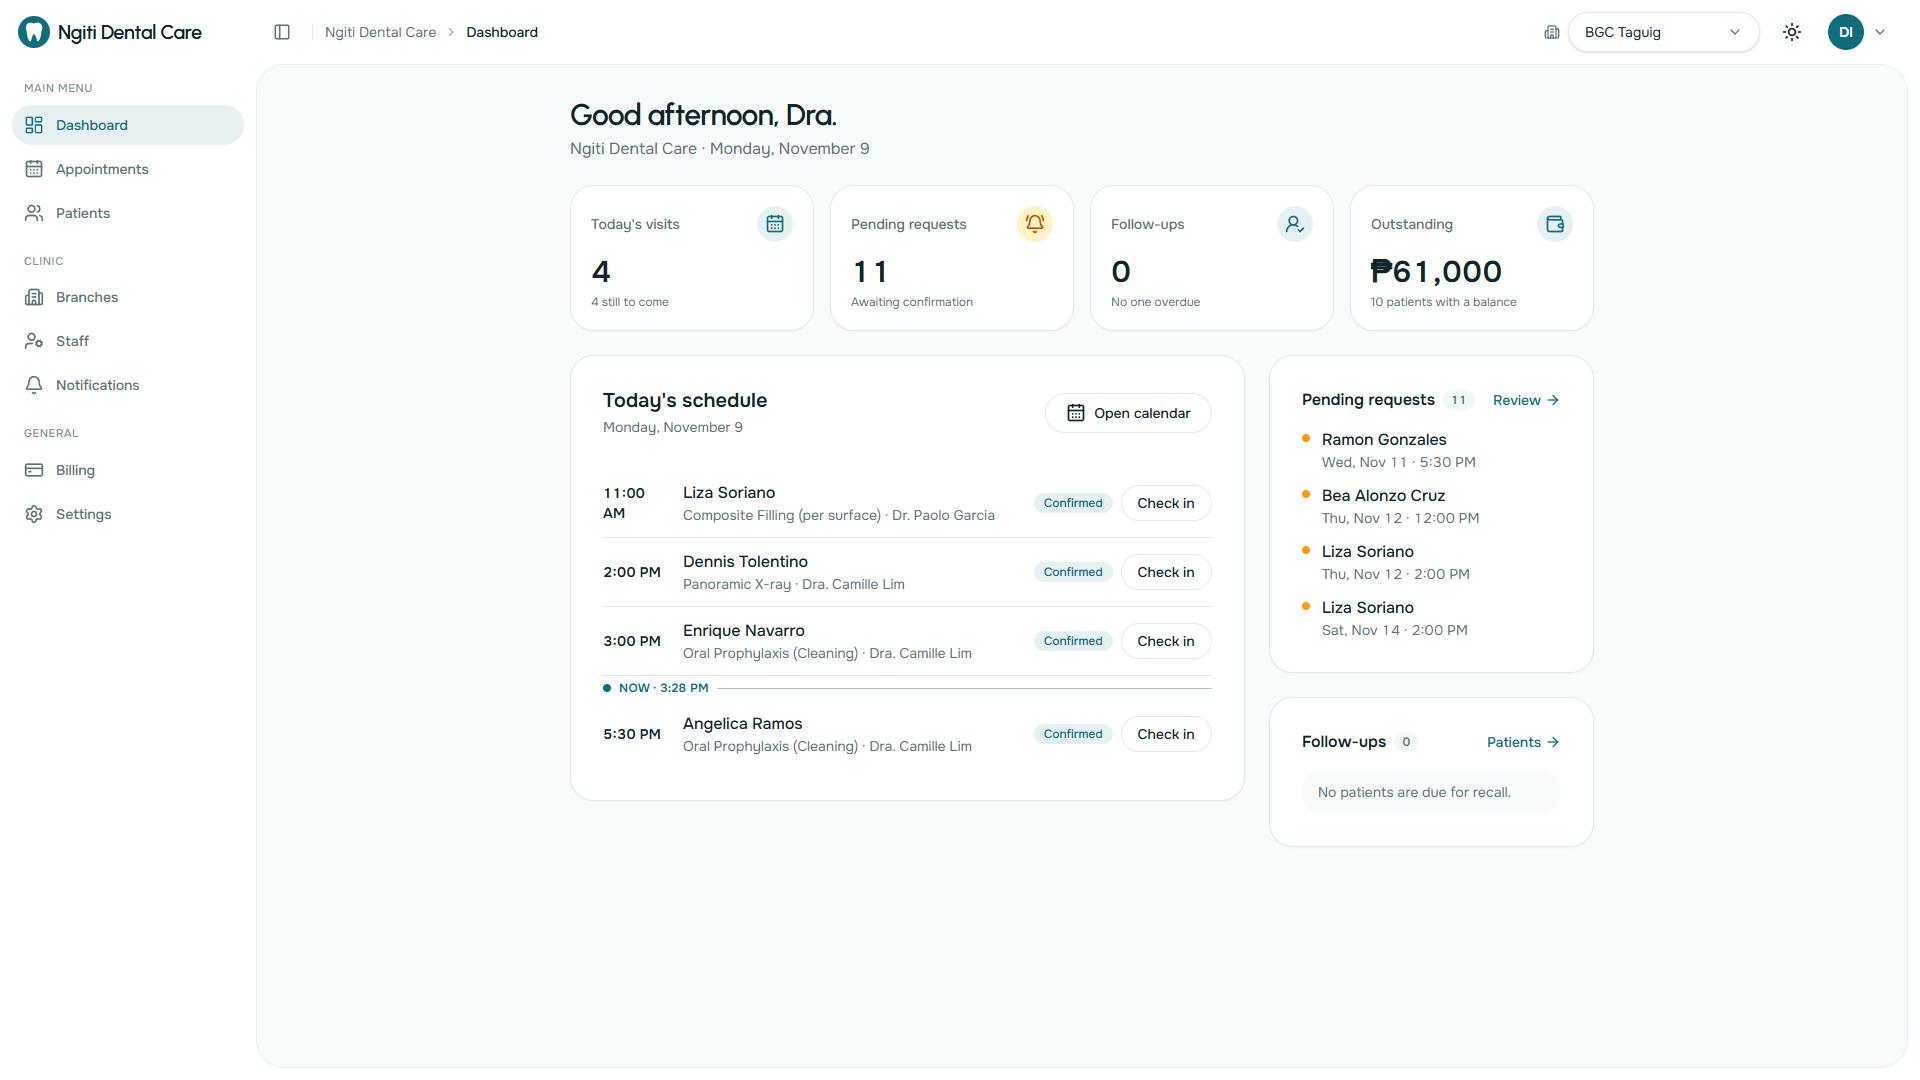
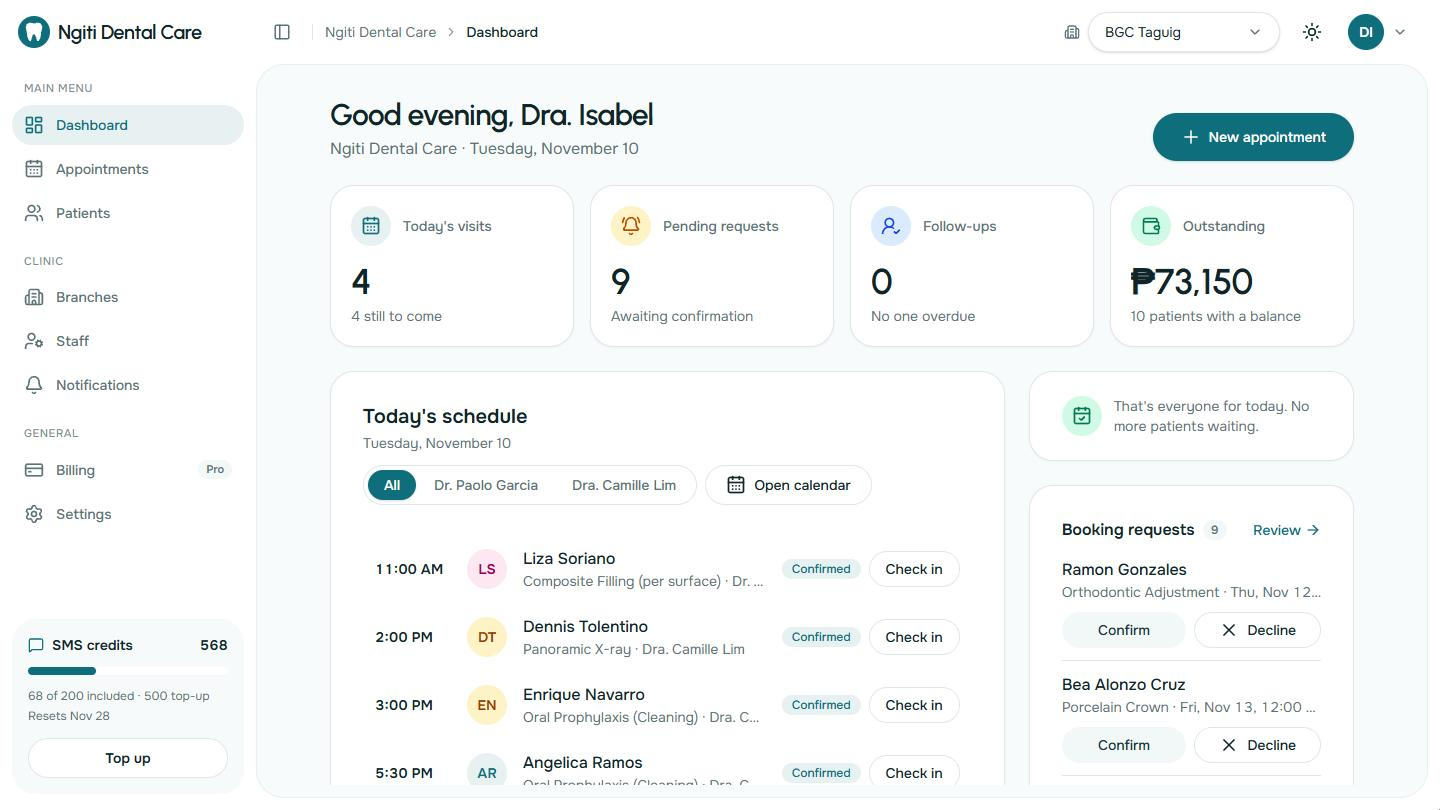
Recapture screenshots after the dashboard redesign and SMS credits
Recaptured all seven at 1440x810 from the live demo so they show the
redesigned Today dashboard, the sidebar SMS credits card and the
current landing hero. The notifications shot now frames the template
editor, and the patient shot shows a full chart with an allergy banner.
Updated the dashboard and billing captions to match.

diff --git a/docs/screenshots/README.md b/docs/screenshots/README.md
@@ -1,11 +1,11 @@
 # Screenshots
 
-Images used by the main [README](../../README.md). They're captured at 1920×1080 from the seeded demo clinic, "Ngiti Dental Care", in Oramo's own lagoon brand colors. Each clinic can set its own color (white-label theming); the live demo clinic uses blue, which was switched off for these captures so they show the official branding.
+Images used by the main [README](../../README.md). They're captured at 1440×810 from the live demo's seeded clinic, "Ngiti Dental Care", in Oramo's own lagoon brand colors. Each clinic can set its own color (white-label theming). The demo-mode notice banner, scrollbars and the notifications page's sticky save bar are hidden in the captures.
 
 | File                | Shows                                                                        |
 | ------------------- | ---------------------------------------------------------------------------- |
 | `landing.png`       | Marketing landing page (hero)                                                |
-| `dashboard.png`     | Today dashboard: the day's schedule, pending requests and KPI cards          |
+| `dashboard.png`     | Today dashboard: the day's schedule, booking requests, KPI cards, SMS credits |
 | `calendar.png`      | Appointments day view: one column per dentist, color-coded statuses           |
 | `patient.png`       | Patient record: medical-alert banner and FDI odontogram (permanent dentition) |
 | `booking.png`       | Public booking page: clinic-branded date and time step (Asia/Manila)         |

diff --git a/README.md b/README.md
@@ -29,11 +29,11 @@ The demo login is shared, so please don't enter real patient information.
 
 | Today dashboard | Appointments calendar |
 | --- | --- |
-| ![Today dashboard: the day's appointments, pending requests and clinic KPIs](docs/screenshots/dashboard.png) | ![Day view with one column per dentist, color-coded by status](docs/screenshots/calendar.png) |
+| ![Today dashboard: the day's schedule, booking requests, clinic KPIs and SMS credits](docs/screenshots/dashboard.png) | ![Day view with one column per dentist, color-coded by status](docs/screenshots/calendar.png) |
 | **Patient record + odontogram** | **Public booking page** |
 | ![Patient record with allergy banner and the FDI dental chart](docs/screenshots/patient.png) | ![Clinic-branded, mobile-first booking flow](docs/screenshots/booking.png) |
 | **SMS notifications** | **Plan & billing** |
-| ![Notification templates with live SMS segment count](docs/screenshots/notifications.png) | ![Subscription plan, trial status and SMS credits](docs/screenshots/billing.png) |
+| ![Notification templates with live SMS segment count](docs/screenshots/notifications.png) | ![Current plan and per-branch peso pricing tiers](docs/screenshots/billing.png) |
 
 ---
 
